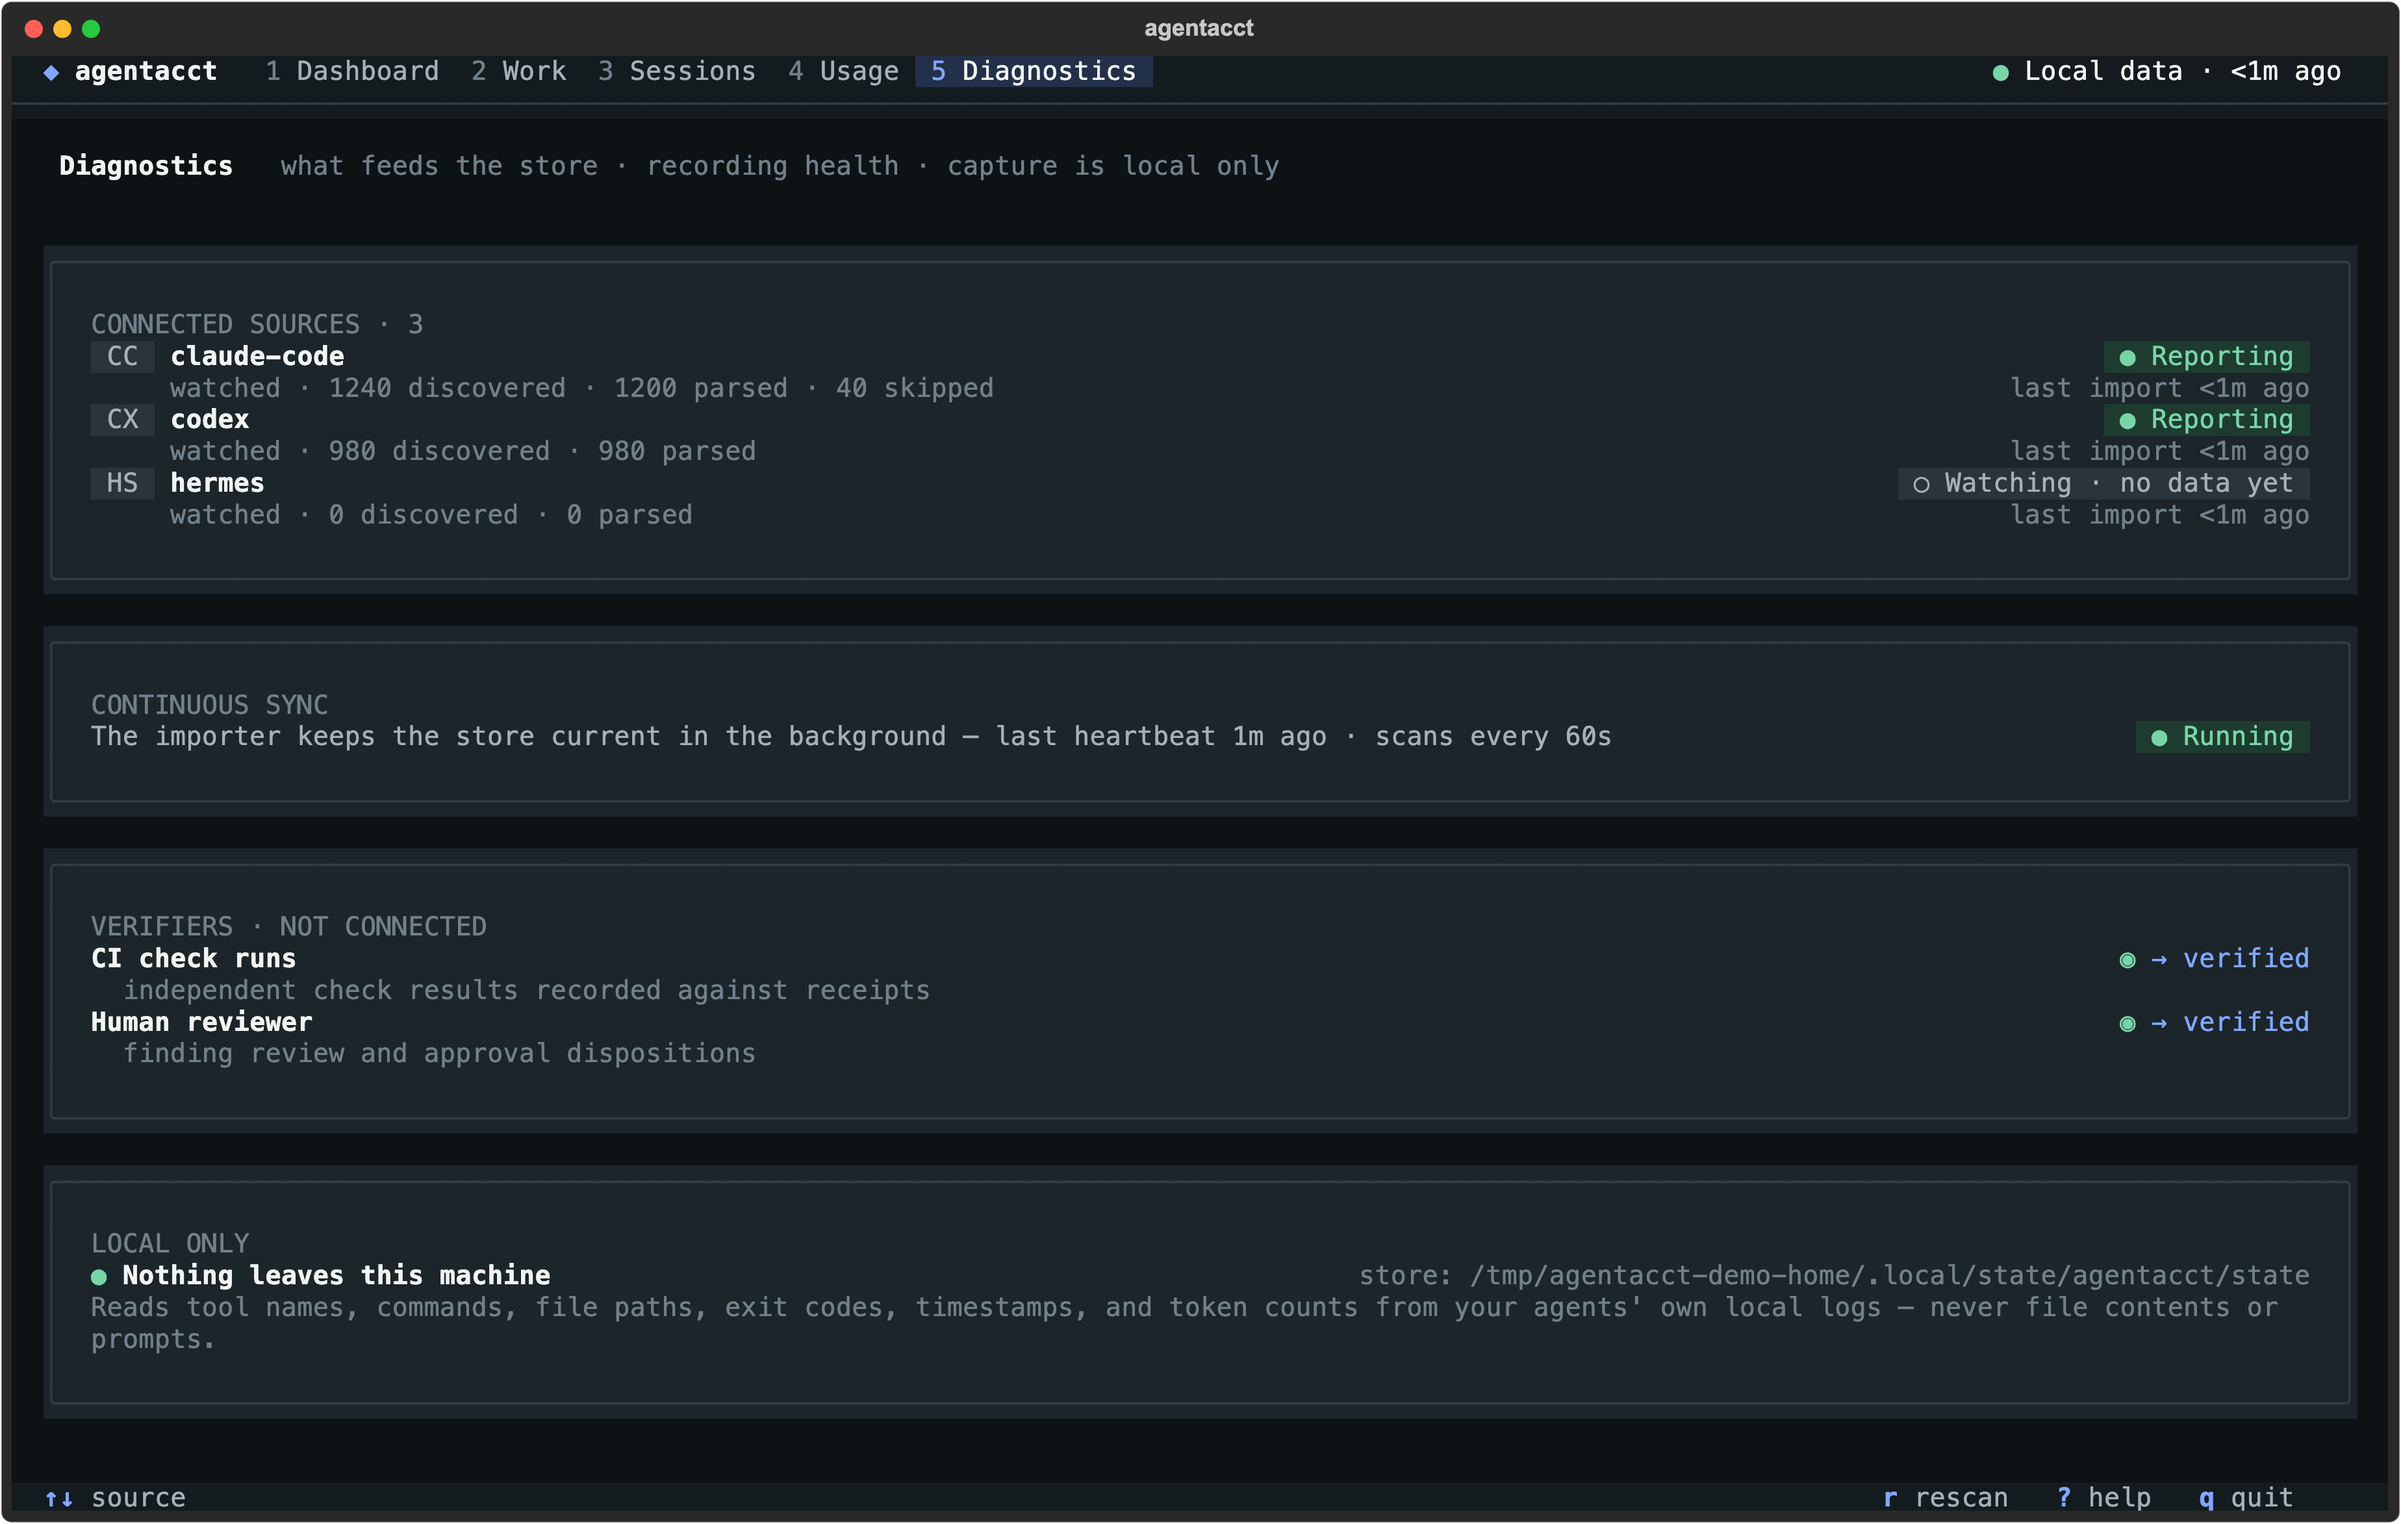
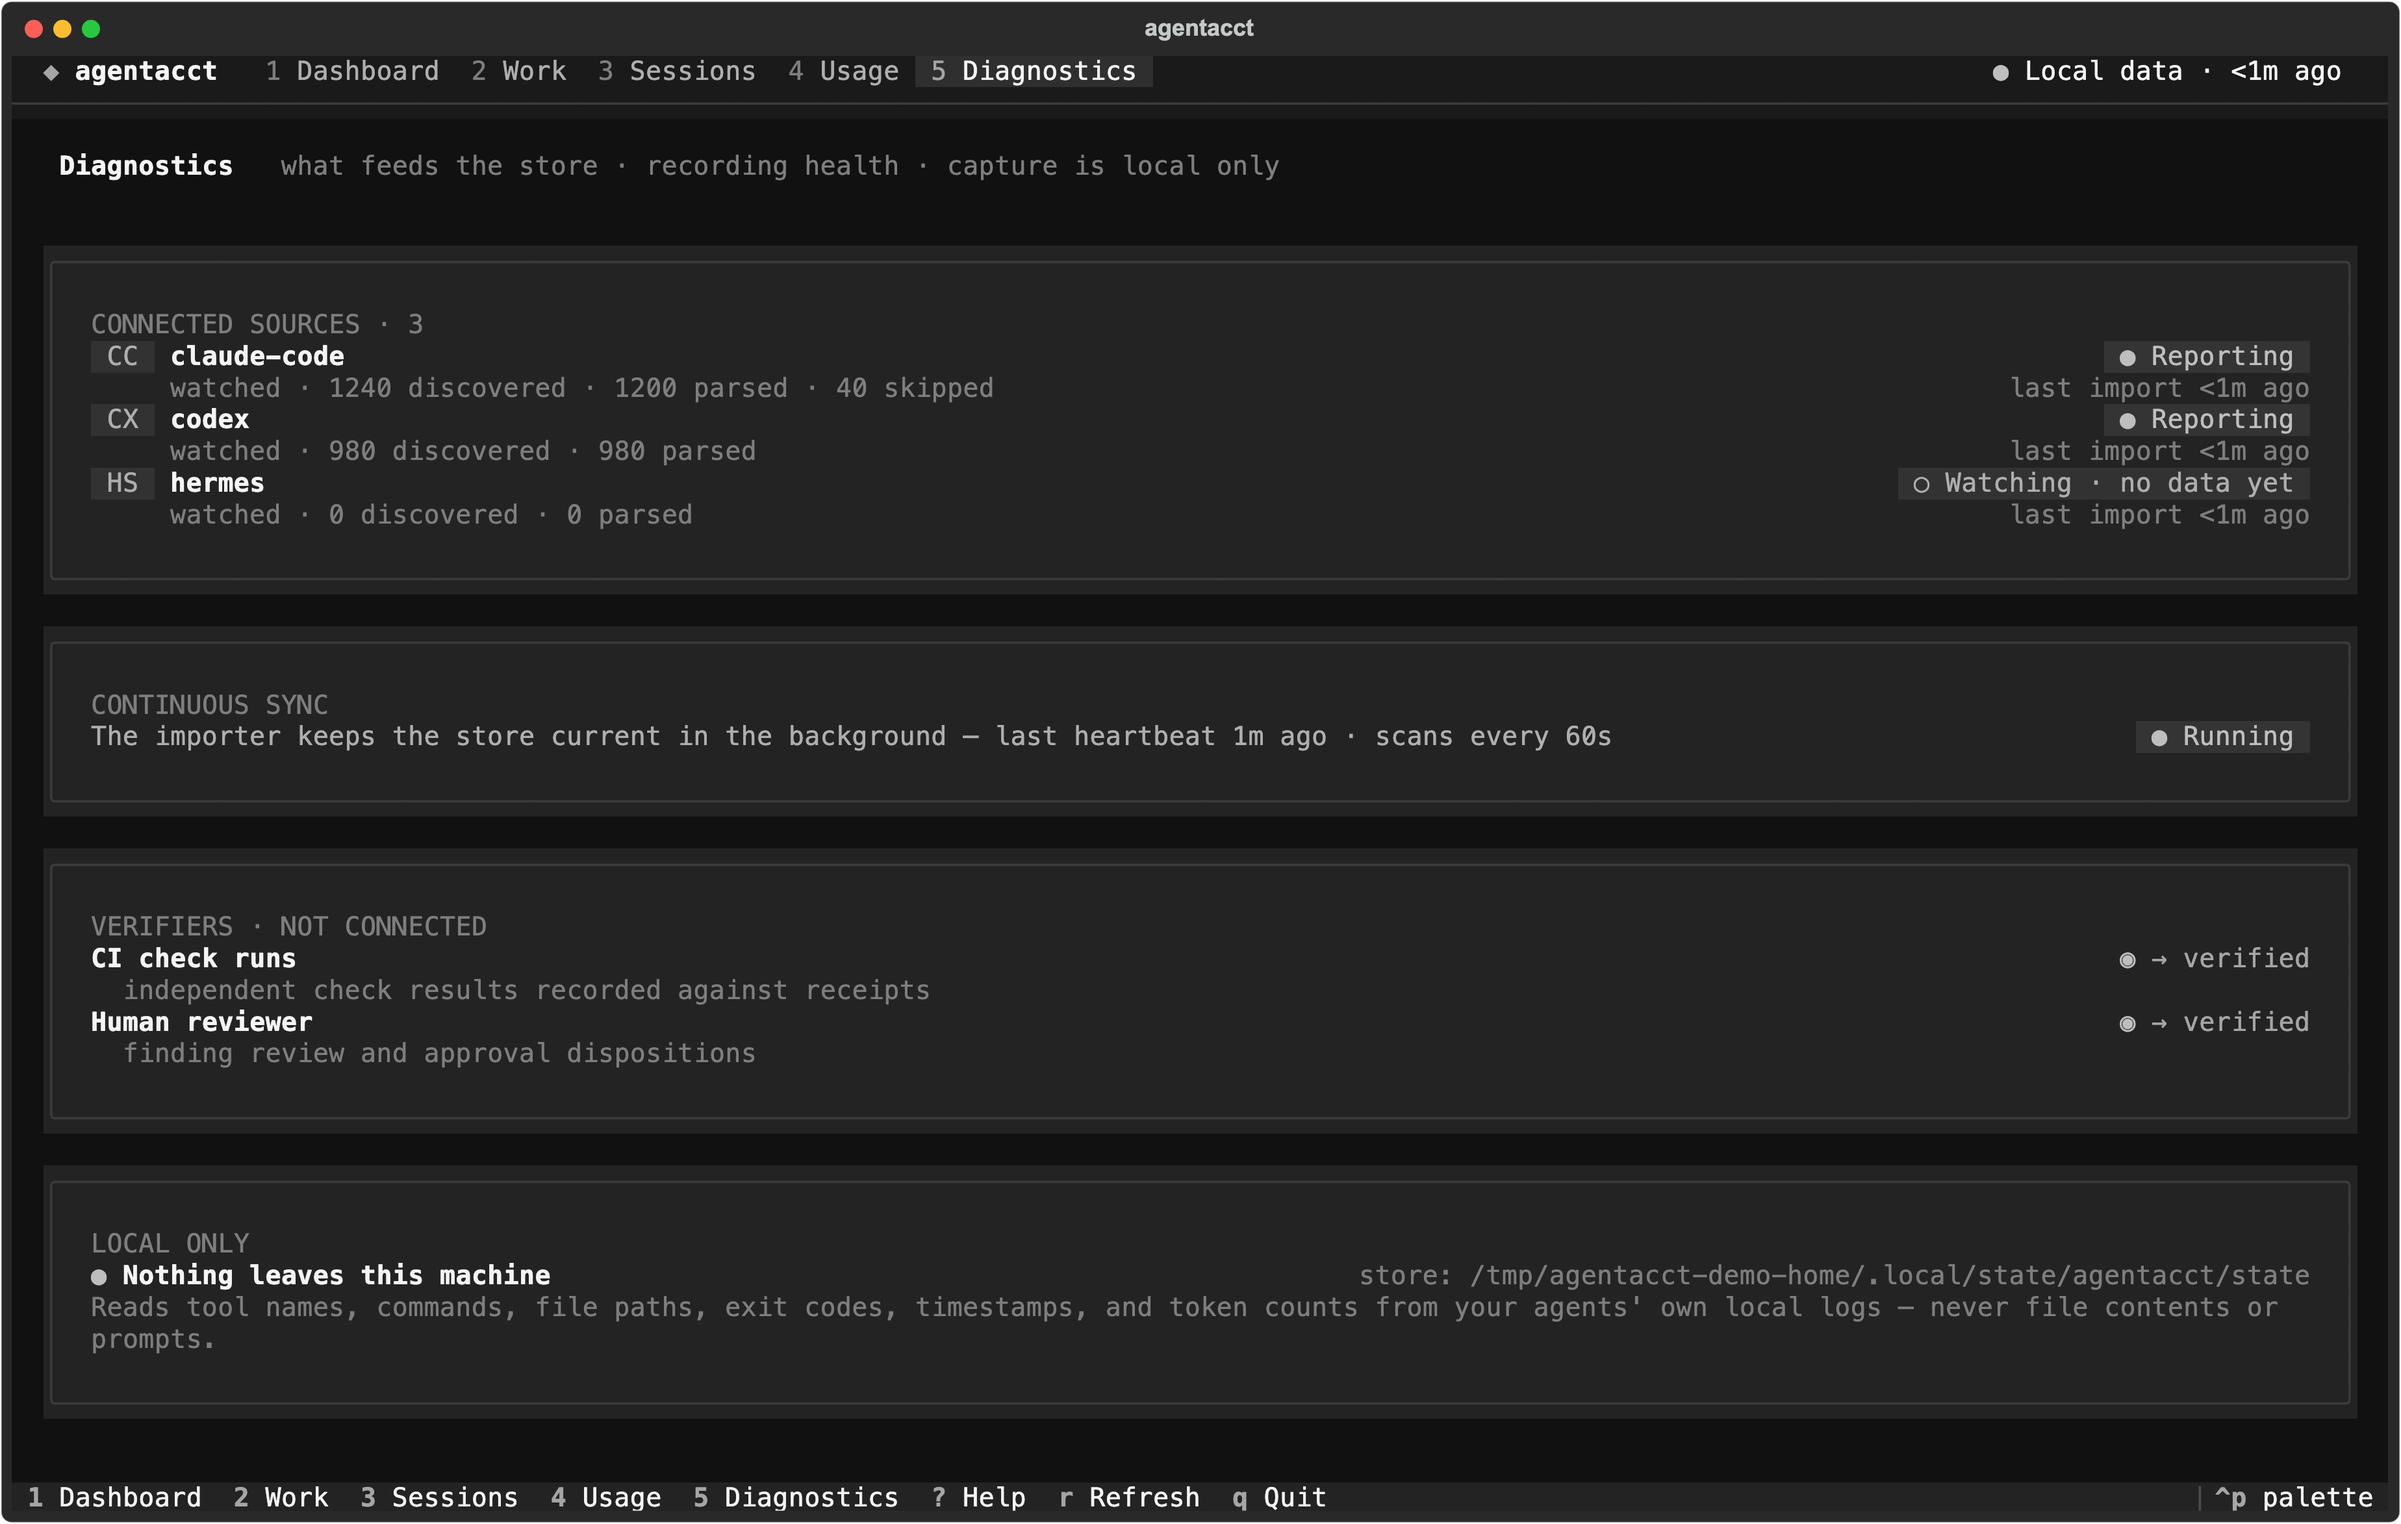
docs: regenerate the README screenshots from the current UI
The app shots were from #316 and predated the Usage rework (#323's
per-agent/model range totals and the top-bar freshness stamp, #326's
independent Date/Agent/Model/Provider filters) and the Kimi Code client
labels (#318). The TUI shots were from 2026-09-19, before the
folder-grouped, bin-packed Work timeline (#308).

gen_tui_screenshots.py had stopped running altogether: its demo sections
carried summaries below the 40-character minimum the recording rules now
enforce, and it still drove the sessions list as a ListView after #289
migrated it to a DataTable. Both fixed, so the TUI assets regenerate
again.

README and README.zh-CN now name Kimi Code in the client list, describe
the Usage filters and range totals, and note the TUI's local-data stamp;
alt text follows the UI.

diff --git a/scripts/gen_tui_screenshots.py b/scripts/gen_tui_screenshots.py
@@ -195,7 +195,8 @@ def build_store():
         _usage(svc, client="claude-code", model=OPUS, session=sid, title=title,
                tokens=1_800_000, at=at, cost=1.4, project=proj)
         _section(svc, session=sid, title="Plan the change", section_id=f"{sid}-plan",
-                 status="completed", at=at - 60, project=proj, kind="planning", summary="Scoped the change.")
+                 status="completed", at=at - 60, project=proj, kind="planning",
+                 summary="Scoped the change against the current module boundaries.")
         _section(svc, session=sid, title=title, section_id=f"{sid}-impl", status="checkpoint",
                  at=at, project=proj, summary="Mid-implementation.")
 
@@ -226,9 +227,9 @@ def build_store():
              status="completed", at=T - 400, project="agentacct", kind="planning",
              summary="Chose a fixed store + golden-SVG approach; scoped light & dark.")
     for step, (sid, title, kind, summ) in enumerate((
-        ("cc-harness-fixture", "Build the fixture store", "implementation", "Seeded the six-session fixture."),
-        ("cc-harness-render", "Render the four panes", "implementation", "Wired headless render of every pane."),
-        ("cc-harness-golden", "Lock the golden SVGs", "testing", "Baselined light & dark goldens."),
+        ("cc-harness-fixture", "Build the fixture store", "implementation", "Seeded the six-session fixture from a synthetic store."),
+        ("cc-harness-render", "Render the four panes", "implementation", "Wired headless render for every pane the README shows."),
+        ("cc-harness-golden", "Lock the golden SVGs", "testing", "Baselined the light and dark goldens for all four panes."),
         ("cc-harness-review", "Review + document", "review", "Addressed review notes; documented the harness."),
     )):
         _section(svc, session="cc-harness", title=title, section_id=sid, status="completed",
@@ -255,9 +256,9 @@ def build_store():
     _usage(svc, client="claude-code", model=OPUS, session="cc-hierarchy",
            title="Rethink dashboard product hierarchy", tokens=2_900_000, at=NOW - 660, cost=2.16, project="agentacct-gui")
     for sid, title, kind, summ in (
-        ("cc-hierarchy-plan", "Map the current hierarchy", "planning", "Catalogued every dashboard surface."),
-        ("cc-hierarchy-impl", "Regroup into shift-brief order", "implementation", "Reordered into attention-first."),
-        ("cc-hierarchy-copy", "Rewrite the section labels", "implementation", "New labels for each rail block."),
+        ("cc-hierarchy-plan", "Map the current hierarchy", "planning", "Catalogued every dashboard surface before regrouping it."),
+        ("cc-hierarchy-impl", "Regroup into shift-brief order", "implementation", "Reordered the rails into attention-first order."),
+        ("cc-hierarchy-copy", "Rewrite the section labels", "implementation", "Wrote new labels for each rail and section block."),
     ):
         _section(svc, session="cc-hierarchy", title=title, section_id=sid, status="completed",
                  at=NOW - 700, project="agentacct-gui", kind=kind, summary=summ)
@@ -354,21 +355,17 @@ async def shoot():
         await pilot.pause()
         # Open on the verified, richly-instrumented receipt (as the artifact does)
         # so the detail showcases the outcome KPIs, summary strip, and tool bars.
-        from textual.widgets import ListView as _LV
+        from textual.widgets import DataTable
         for summary in app._work_summaries:
             if str(summary.get("title")) == "Build reusable snapshot harness":
                 app._selected_task_id = str(summary.get("task_id"))
                 app._render_work_list()
                 break
         await pilot.pause()
-        lv = app.query_one("#work-list", _LV)
-        lv.focus()
-        # Setting `index` right after an async clear()+append misses the not-yet-
-        # mounted child, so light the selected card's highlight directly (live
-        # keyboard navigation applies it on its own).
-        if app._expanded_index is not None:
-            for i, item in enumerate(lv.children):
-                item.highlighted = (i == app._expanded_index)
+        # The sessions list is a DataTable (cursor_type="row"); _render_work_list
+        # has already moved its cursor onto the selected receipt, so focusing the
+        # table is the whole highlight step.
+        app.query_one("#work-list", DataTable).focus()
         await app.workers.wait_for_complete()
         await pilot.pause()
         await pilot.pause()

diff --git a/README.md b/README.md
@@ -9,7 +9,7 @@ English · [简体中文](README.zh-CN.md)
 
 **agentacct answers one simple question: what the fuck are my agents actually doing?**
 
-See what your coding agents have been working on, across projects and clients: recent activity, tool calls, recorded steps, checks, tokens, and estimated cost. Open a task for its Work Receipt and follow the activity timeline from attempt to result. Built from the local session logs of Claude Code, Codex, OpenCode, Hermes, and others. No account, no cloud, nothing leaves your computer.
+See what your coding agents have been working on, across projects and clients: recent activity, tool calls, recorded steps, checks, tokens, and estimated cost. Open a task for its Work Receipt and follow the activity timeline from attempt to result. Built from the local session logs of Claude Code, Codex, Kimi Code, OpenCode, Hermes, and others. No account, no cloud, nothing leaves your computer.
 
 ![Sessions and a Work Receipt: a latest-first task list beside the recorded outcome, session count, estimated cost, claim coverage, check results, and activity timeline.](https://raw.githubusercontent.com/mikehasa/agentacct/main/docs/assets/app-work-receipt.png)
 
@@ -49,17 +49,17 @@ The Dashboard shows the latest recorded work across your projects, with its clie
 
 ## Understand the usage behind the work
 
-![Usage with a daily chart, Fresh, Cache, Total, and Cost columns, and a selected-date breakdown by client and model with separate cache reads and writes. Dates represent session totals by activity date.](https://raw.githubusercontent.com/mikehasa/agentacct/main/docs/assets/app-usage.png)
+![Usage with independent Date, Agent, Model, and Provider filters, range totals by agent and by model, a daily chart with a Fresh/All tokens toggle, and a selected date's breakdown by client and model with separate cache reads and writes.](https://raw.githubusercontent.com/mikehasa/agentacct/main/docs/assets/app-usage.png)
 
-Select a date to compare clients and models—for example, the same model through Codex and Hermes. The token chart remembers your **Fresh** or **All tokens** choice. Tables show fresh, cache, and total tokens side by side; the client/model breakdown separates cache reads and writes. Hover a **Fresh** value for input and output counts.
+Filter by date, agent, model, or provider—independently, so "Codex on Opus, last 7 days" is one selection instead of a page you reset. **This range** totals the same rows by agent and by model, and selecting a date narrows the client/model breakdown under the date table. The chart remembers your **Fresh** or **All tokens** choice, and the tables show fresh, cache, and total tokens side by side with cache reads and writes separated. Hover a **Fresh** value for input and output counts.
 
-Dates show **session totals by activity date**; sessions spanning several days are not split into exact daily consumption. Provider-reported quota windows and reset times are available on the same page. Tokens come from client records; costs are pricing-table estimates marked `≈`, never an invoice.
+The top bar always says how fresh the local data is (**Local data · just now**, or the last saved copy). Dates show **session totals by activity date**; sessions spanning several days are not split into exact daily consumption. Provider-reported quota windows and reset times are available on the same page. Tokens come from client records; costs are pricing-table estimates marked `≈`, never an invoice.
 
 ## Also in the terminal
 
 ![agentacct tui: a Needs review block whose first item is a blocked claude-code task with its recorded reason, next step, and MCP-record provenance; a Right now rail with Working now, Capacity, Usage change, and Evidence trust; a Recent work table with outcome, evidence, and estimated cost; and a usage history sparkline.](https://raw.githubusercontent.com/mikehasa/agentacct/main/docs/assets/tui-dashboard.png)
 
-`agentacct tui` provides receipts, usage, capacity, and its own review overview in your shell — including the folder-anchored **Work** tab, where each group draws its sessions across every agent on one cross-agent timeline you can open (`↵`) and zoom/scrub by keyboard. Press `?` for the keys.
+`agentacct tui` provides receipts, usage, capacity, and its own review overview in your shell — including the folder-anchored **Work** tab, where each group draws its sessions across every agent on one cross-agent timeline you can open (`↵`) and zoom/scrub by keyboard. Its top bar carries the same local-data stamp as the app. Press `?` for the keys.
 
 ## Honest by design
 
